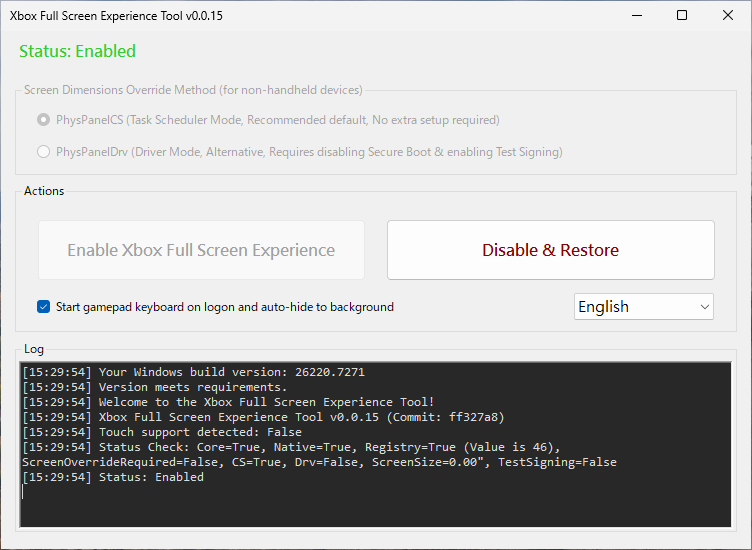
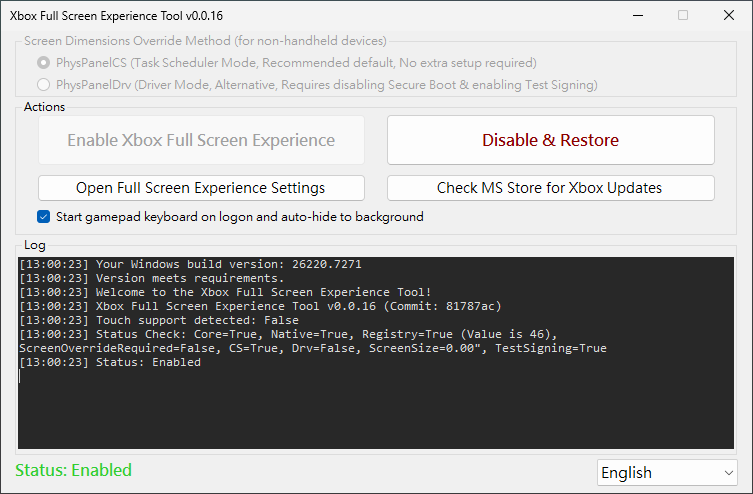
chore: Bump version to 0.0.16 and update documentation assets
- Updated the main application and installer version to 0.0.16.
- Bumped the version for the `PhysPanelLib` library and the native `PhysPanelCPP` utility to 0.0.12.
- Refreshed demo screenshots (`demo.png`, `demo.zh-TW.png`) to reflect recent UI changes and adjusted their display width to 602px in READMEs.
- Added `v0.0.16` to the version selection dropdown in the GitHub issue template.

diff --git a/README.zh-TW.md b/README.zh-TW.md
@@ -7,7 +7,7 @@
 </p>
 
 <p align="center">
-<img src="demo.zh-TW.png" alt="Xbox 全螢幕體驗工具展示" style="width: 550px; object-fit: contain; display: block; margin: 0 auto;">
+<img src="demo.zh-TW.png" alt="Xbox 全螢幕體驗工具展示" style="width: 602px; object-fit: contain; display: block; margin: 0 auto;">
 </p>
 
 <p align="center">

diff --git a/README.md b/README.md
@@ -7,7 +7,7 @@
 </p>
 
 <p align="center">
-<img src="demo.png" alt="Xbox Full Screen Experience Tool Demo" style="width: 550px; object-fit: contain; display: block; margin: 0 auto;">
+<img src="demo.png" alt="Xbox Full Screen Experience Tool Demo" style="width: 602px; object-fit: contain; display: block; margin: 0 auto;">
 </p>
 
 <p align="center">
